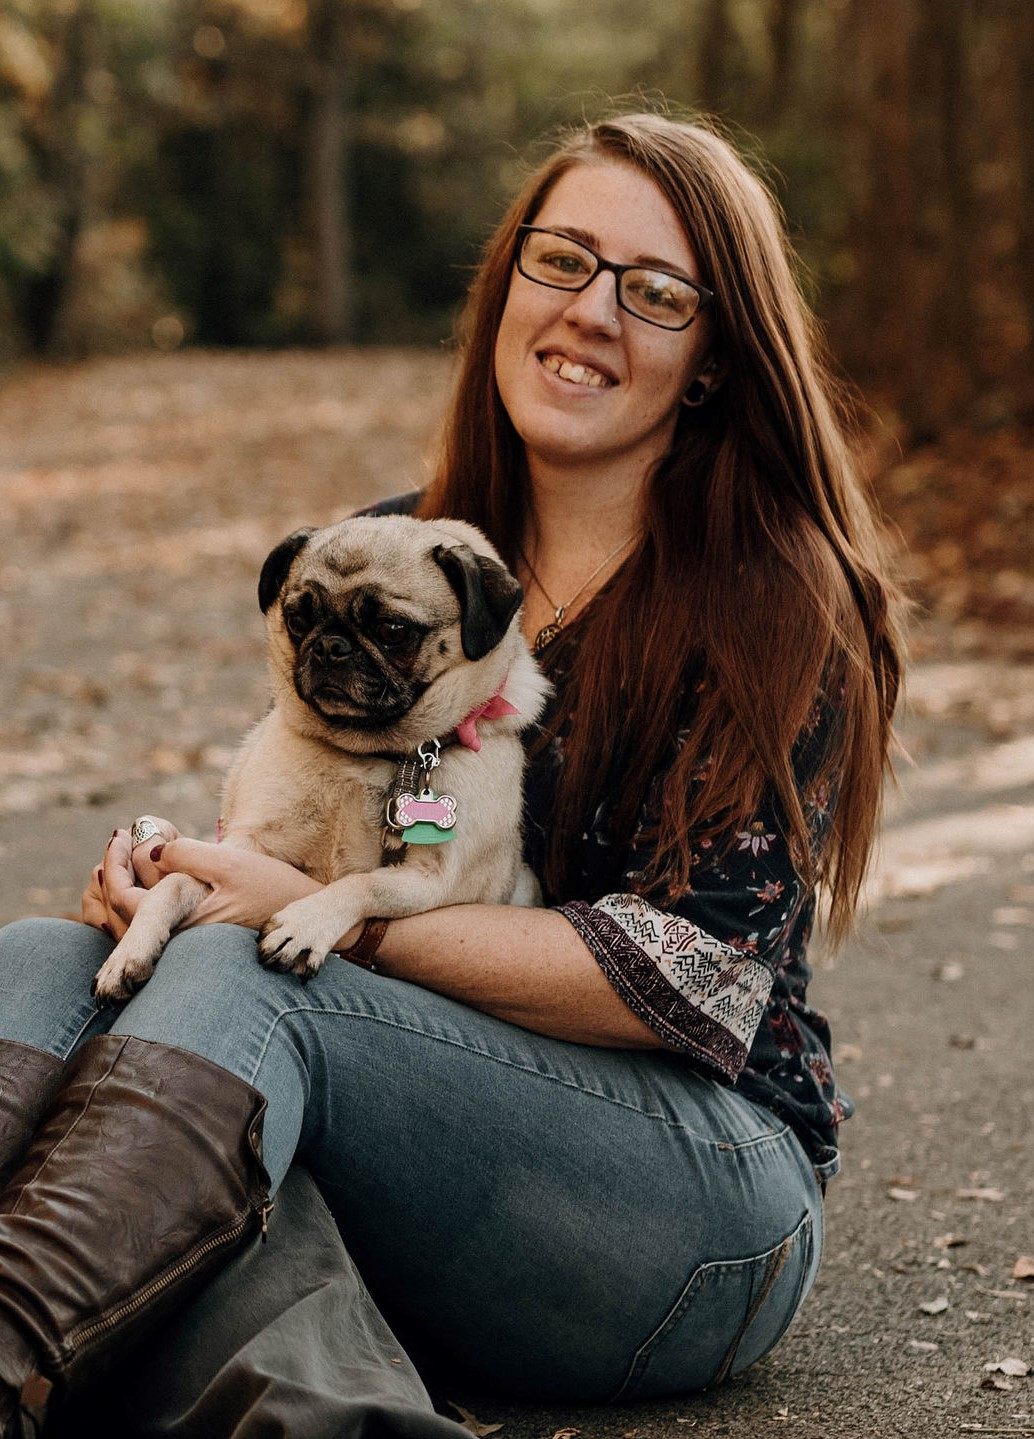
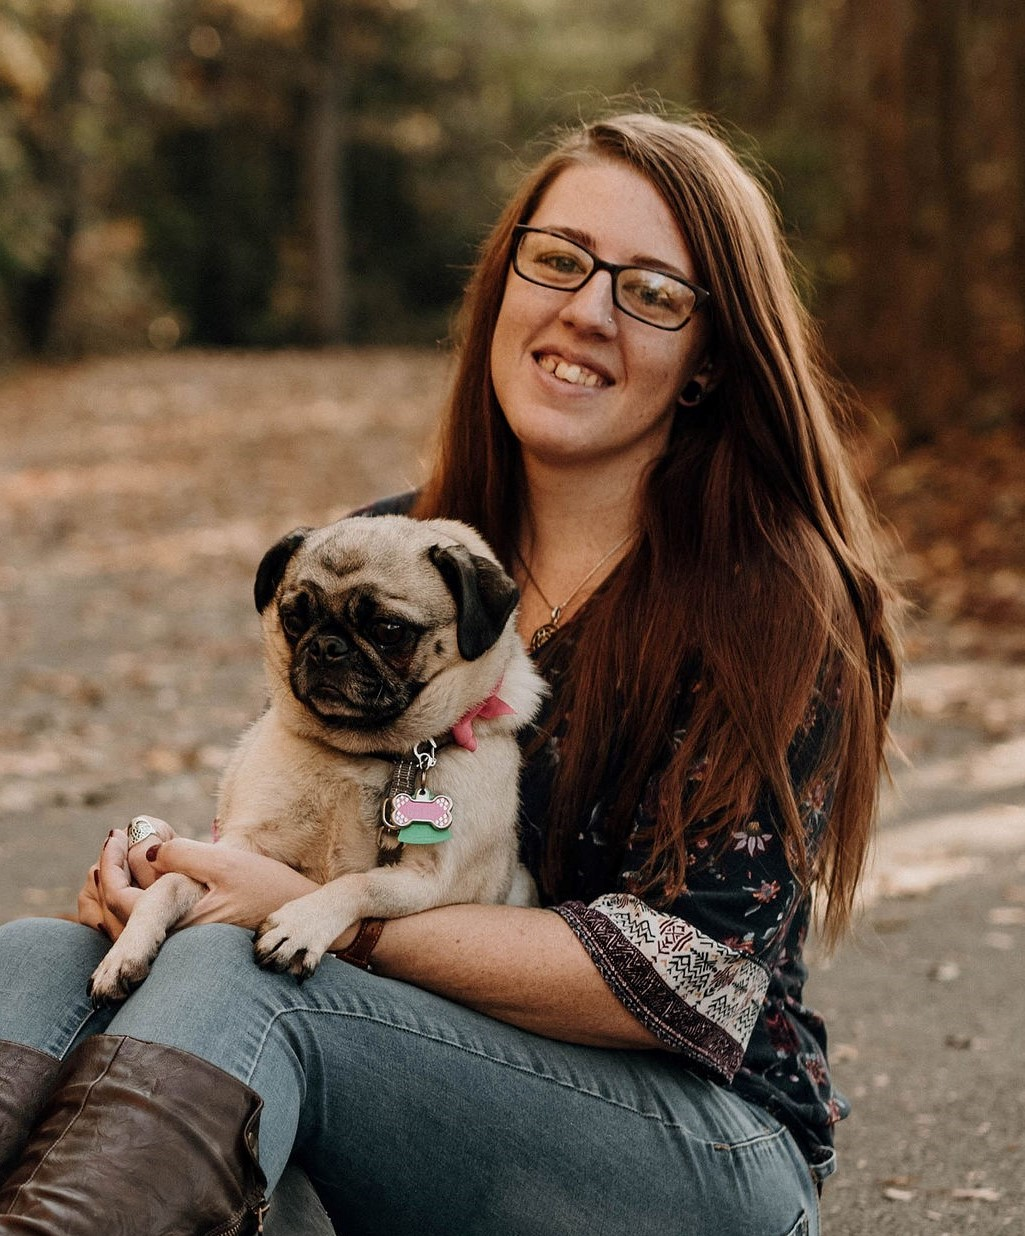
gradient changes and some other things

diff --git a/index.html b/index.html
@@ -35,26 +35,17 @@
     <br>
 
     <main class="container">
-    <div>
      <div class="card mb-3" style="max-width: 800px;">
       <div class="card-header">About Me</div>
         <div class="row">
           <div class="col-md-4">
-            <img src="./assets/images/Christine-pug.jpg" alt="Christine-headshot" width="295" height="350" class="rounded">
+            <img src="./assets/imgs/Christine-pug.jpg" alt="Christine-headshot" width="295" height="350" class="rounded">
             <br>
           </div>
           <div class="col-md-7">
             <div class="card-body">
             <p class="card-text">Christine graduated from Northern Virginia Community College with an Associates Degree in Veterinary Technology in 2016. Christine also passed the Veterinary Technician National Exam and became a Licensed Veterinary Technician that same year. She is currently enrolled in University of Richmond's Coding Boot Camp looking to further her knowledge and education in web development. Christine resides in Richmond with her fiance, two pugs and three cats.</p>
-            <center><a href="https://www.facebook.com/faerieflyinfree/" target="_blank">
-              <i class="fab fa-facebook-square" style="font-size: 36px; color: black;"></i>
-            </a>
-            <a href="https://github.com/cmoorelvt" target="_blank">
-              <i class="fab fa-github-square" style="font-size: 36px; color: black;"></i>
-            </a>
-            <a href="https://www.linkedin.com/in/cmoorelvt" target="_blank">
-              <i class="fab fa-linkedin" style="font-size: 36px; color: black;"></i>
-            </a>
+    
           <br>
          <a href="https://docs.google.com/document/d/1SRzZ8dzchCPgj65Aw6HCgU48VI17madph8JSuK2hBZQ/edit?usp=sharing" target="_blank">See Resume Here</a></center>
           </div>
@@ -64,9 +55,15 @@
     </main>
 
     <footer>
-          <div class="footer-copyright text-center py-3">© 2020 Copyright
+      <div id="footer-wrap"class="col-md-12">
+          <nav id="footer" class="fixed-bottom">
+              <a href="https://www.facebook.com/faerieflyinfree/" target="_blank"><i class="fab fa-facebook-square fa-2x"></i></a>            
+              <a href="https://github.com/cmoorelvt" target= "_blank"><i class="fab fa-github fa-2x"></i></a>
+              <a href="https://www.linkedin.com/in/cmoorelvt/" target= "_blank"><i class="fab fa-linkedin fa-2x"></i></a>
+              <a href="mailto:cmoorelvt@gmail.com" target= "_blank"><i class="far fa-envelope-open fa-2x"></i></a>
+          </nav>
       </div>
-    </footer>
+  </footer>
 
     <script src="https://code.jquery.com/jquery-3.5.1.slim.min.js" integrity="sha384-DfXdz2htPH0lsSSs5nCTpuj/zy4C+OGpamoFVy38MVBnE+IbbVYUew+OrCXaRkfj" crossorigin="anonymous"></script>
     <script src="https://cdn.jsdelivr.net/npm/popper.js@1.16.1/dist/umd/popper.min.js" integrity="sha384-9/reFTGAW83EW2RDu2S0VKaIzap3H66lZH81PoYlFhbGU+6BZp6G7niu735Sk7lN" crossorigin="anonymous"></script>

diff --git a/assets/css/style.css b/assets/css/style.css
@@ -6,24 +6,20 @@
 
   /* Background gradient */
   .css-selector {
-    background: linear-gradient(270deg, #0c6b07, #3e076b);
+    background: linear-gradient(270deg, #03890e, #4a1594);
     background-size: 400% 400%;
-    -webkit-animation: AnimationName 30s ease infinite;
-    -moz-animation: AnimationName 30s ease infinite;
-    -o-animation: AnimationName 30s ease infinite;
-    animation: AnimationName 30s ease infinite;
+
+    -webkit-animation: AnimationName 17s ease infinite;
+    -moz-animation: AnimationName 17s ease infinite;
+    animation: AnimationName 17s ease infinite;
 }
+
 @-webkit-keyframes AnimationName {
     0%{background-position:0% 50%}
     50%{background-position:100% 50%}
     100%{background-position:0% 50%}
 }
 @-moz-keyframes AnimationName {
-    0%{background-position:0% 50%}
-    50%{background-position:100% 50%}
-    100%{background-position:0% 50%}
-}
-@-o-keyframes AnimationName {
     0%{background-position:0% 50%}
     50%{background-position:100% 50%}
     100%{background-position:0% 50%}
@@ -67,9 +63,10 @@
   
   img {
       float: left;
+      margin: 2.75rem;
       padding-left: 25px;
       padding-right: 25px;
-      width: 100%;
+      width: 115%;
       padding: 20px; 
       border-color: black;
       border-image-outset: 10px;
@@ -97,7 +94,7 @@
     float: center;
   }
   
-   
+
   /* Footer */
 
   #footer-wrap {
